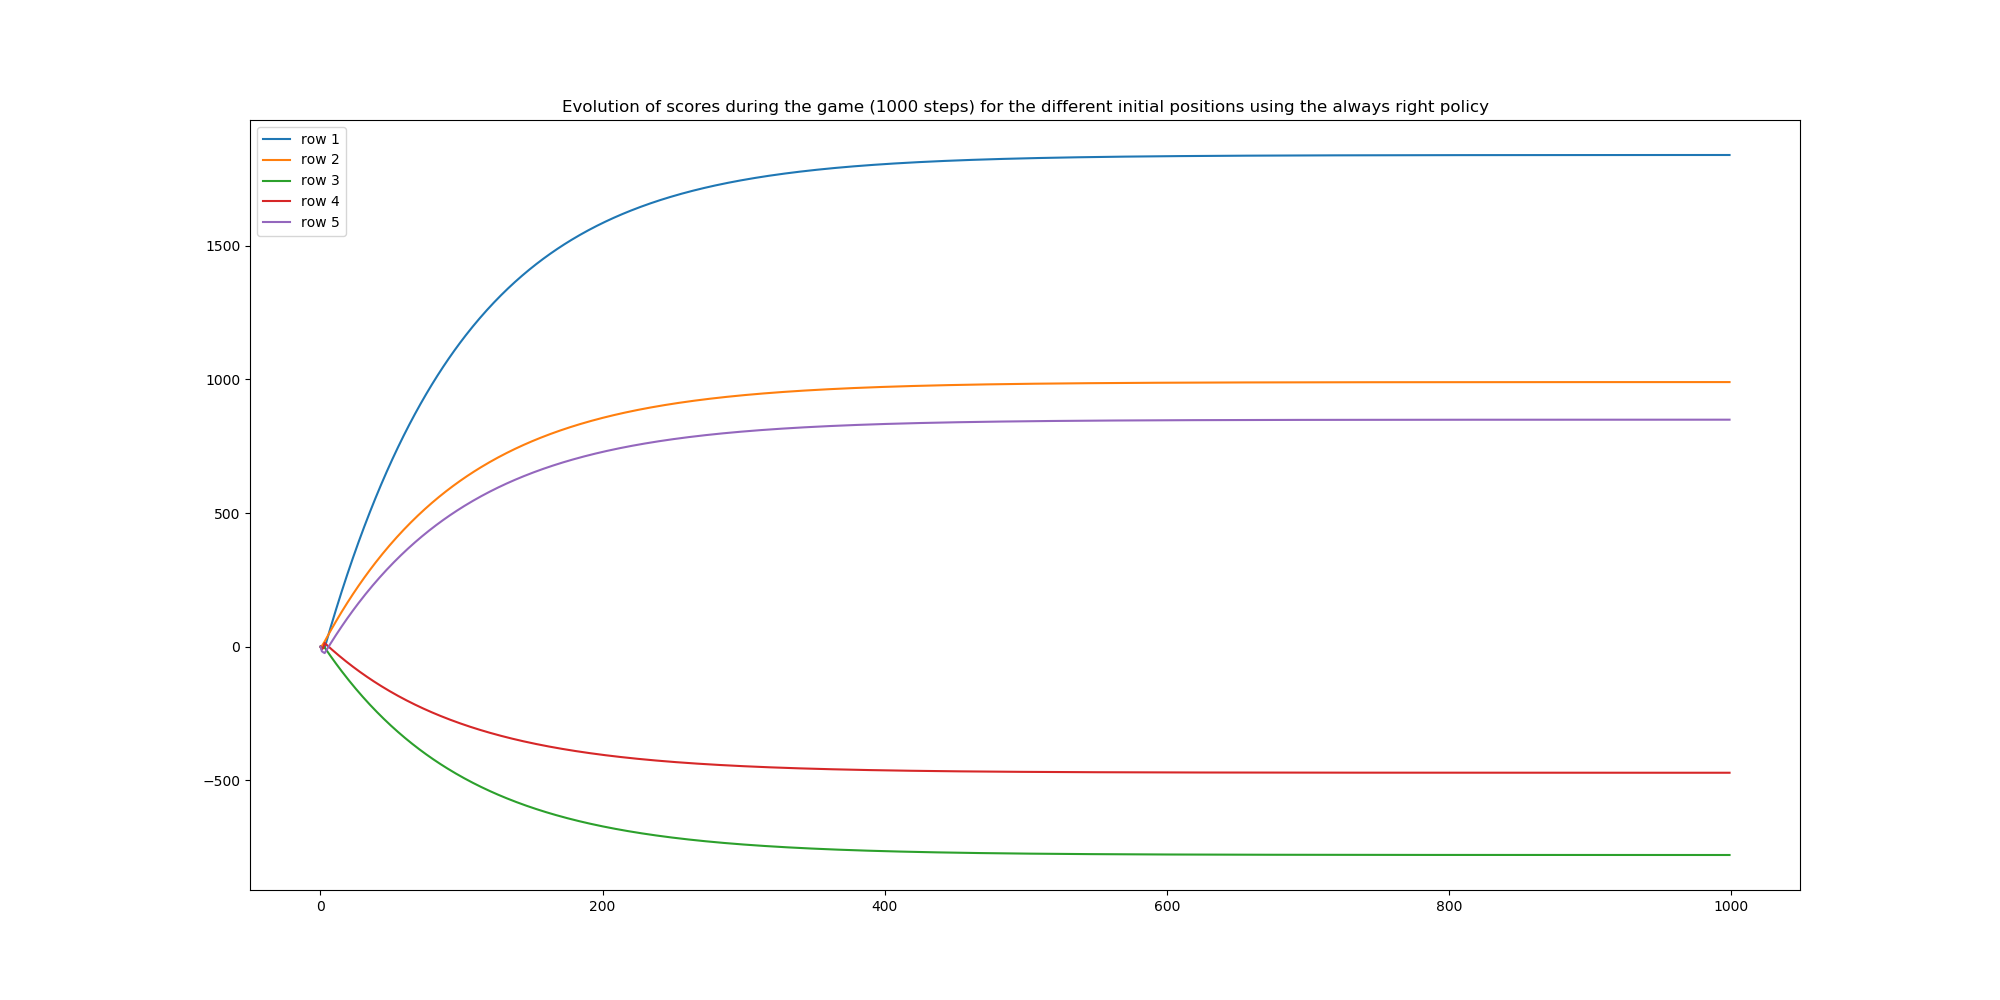
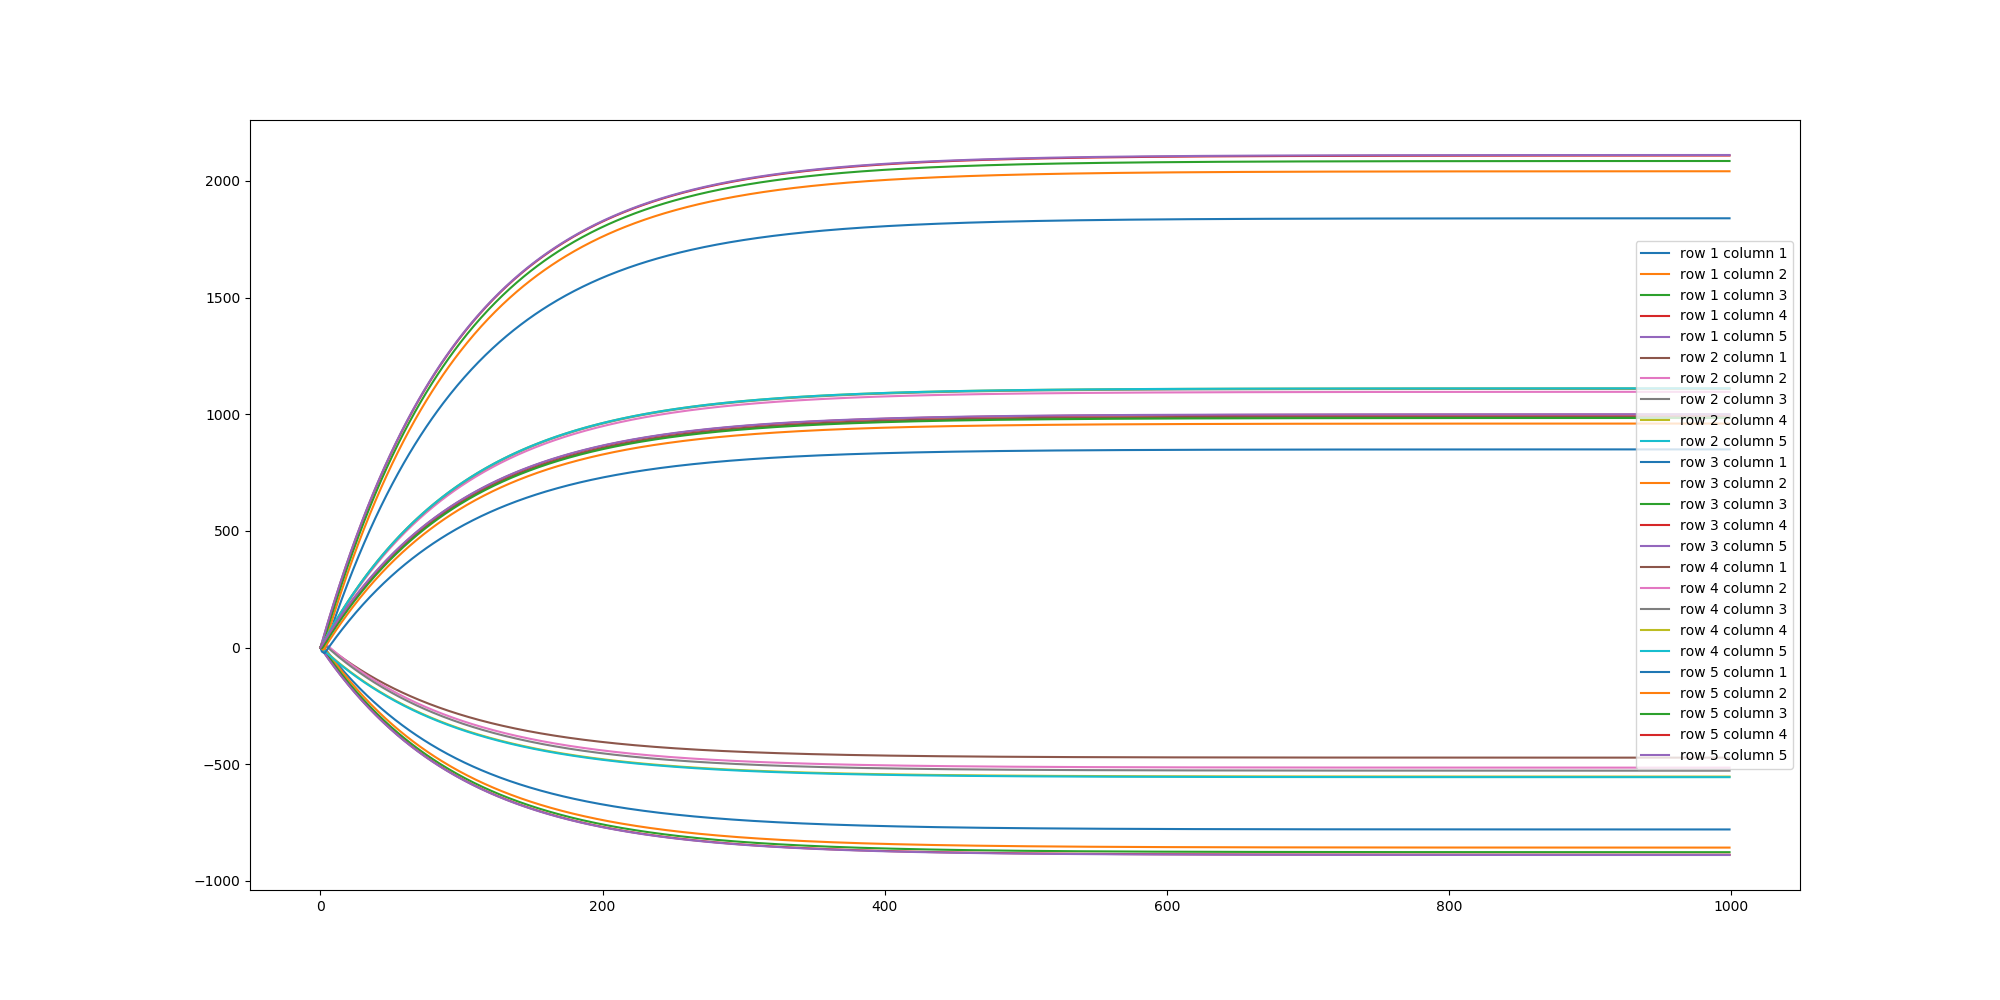
Q function and pre requisites

diff --git a/game.py b/game.py
@@ -101,6 +101,8 @@ class Agent:
             return self.policy_up()
         elif self.policyType == 4:
             return self.policy_down()
+        elif self.policyType == 5:
+            return self.Q_policy()
         else :
             return
 
@@ -145,6 +147,27 @@ class Agent:
     """
     def policy_down(self):
         self.currMove = "DOWN"
+        self.update_agent()
+
+    # returns the best move to make according to the Q policy for a given N value
+    def Q_policy(self):
+
+        N = 5 # need to change this to be more modular
+        x = self.positionI,self.positionJ
+        U = ["UP", "DOWN", "RIGHT", "LEFT"] # set of possible actions
+
+        best_action = ""
+        best_Q = best_Q = float('-inf')
+        # find best action
+        for u in U:
+            Q = self.grid.Q_function( N, x, u, self.beta)
+
+            # if the action u yielded a better Q value
+            if Q > best_Q:
+                best_Q = Q
+                best_action = u
+
+        self.currMove = u
         self.update_agent()
 
 
@@ -234,18 +257,18 @@ class Grid:
         # if the movement was allowed, the i and j indexes are changed. Otherwise we hit a wall -> i j dont change we stay there
         if direction == "UP" and self.allowed_position(i-1,j)== True:
             i= i-1
-        elif direction == "DOWN" and self.grid.allowed_position(i+1,j)== True:
+        elif direction == "DOWN" and self.allowed_position(i+1,j)== True:
             i = i+1
-        elif direction == "RIGHT" and self.grid.allowed_position(i,j+1)== True:
+        elif direction == "RIGHT" and self.allowed_position(i,j+1)== True:
             j = j+1
-        elif direction == "LEFT" and self.grid.allowed_position(i,j-1)== True:
+        elif direction == "LEFT" and self.allowed_position(i,j-1)== True:
             j = j-1
 
         expectedReward = (self.rewards[i][j] * normalMoveChance) + (self.rewards[0][0]*resetChance)
 
         return expectedReward
 
-    # this fucntion returns the proba to get to state x' (xprime) from state x while doing action u
+    # this function returns the proba to get to state x' (xprime) from state x while doing action u
     # u is one of the following : "UP", "DOWN", "RIGHT", "LEFT"
     # beta is the proba to go back to (0,0) instead of doing the action u
     def compute_proba_xprime_x_u(self, xprime, x, u, beta):
@@ -260,11 +283,11 @@ class Grid:
         # computation of the state we would reach if u was applied to x
         if direction == "UP" and self.allowed_position(i-1,j)== True:
             i_moved = i-1
-        elif direction == "DOWN" and self.grid.allowed_position(i+1,j)== True:
+        elif direction == "DOWN" and self.allowed_position(i+1,j)== True:
             i_moved = i+1
-        elif direction == "RIGHT" and self.grid.allowed_position(i,j+1)== True:
+        elif direction == "RIGHT" and self.allowed_position(i,j+1)== True:
             j_moved = j+1
-        elif direction == "LEFT" and self.grid.allowed_position(i,j-1)== True:
+        elif direction == "LEFT" and self.allowed_position(i,j-1)== True:
             j_moved = j-1
 
         # if x' state not allowed, proba to get there is 0
@@ -290,6 +313,56 @@ class Grid:
         # if we get here, unexpected case, return -1
         print(" ERROR smth unexpected happened in p(x'|x,u)")
         return -1
+
+
+    def Q_function(self, N, x, u, beta):
+
+        # end case
+        if N == 0:
+            return 0
+
+        U = ["UP", "DOWN", "RIGHT", "LEFT"] # set of possible actions
+        X = [] # domain
+        sizeI, sizeJ=self.rewards.shape
+
+        # we add to the domain all possible states
+        for i in range(sizeI):
+            for j in range(sizeI):
+                X.append((i,j))
+
+        # computing the different terms of the Q function equation
+
+        # first term : the reward
+        ret = self.compute_r_x_u(x,u,beta)
+
+        # second term : the sum
+        sum = 0
+        for x_prime in X:
+
+            proba = self.compute_proba_xprime_x_u(x_prime,x,u,beta)
+
+            # if the proba is null, we can avoid unnecassary computations
+            if(proba == 0):
+                continue
+            # need to find the u that maximizes the next Q value
+            best_Q = float('-inf')
+
+            for u_prime in U:
+                curr_Q = self.Q_function(N-1, x_prime, u_prime,beta )
+
+                if curr_Q > best_Q:
+                    best_Q = curr_Q
+
+            sum += proba*best_Q
+
+        sum = sum*self.discount
+
+        # adding both terms
+        ret = ret + sum
+
+        return ret
+
+
 
 
 
@@ -339,6 +412,8 @@ class Game:
             policyType = 3
         elif direction == "DOWN":
             policyType = 4
+        elif direction == "Q":
+            policyType = 5
         else:
             print("error unknown direction: "+direction)
         return policyType

diff --git a/section4.py b/section4.py
@@ -14,20 +14,36 @@ if __name__ == '__main__':
 	        [6, -9, 4, 19, -5],
 	        [-20, -17, -4, -3, 9]])
 
-	steps = 10
+	steps = 100
 	discount =  0.99
 	beta = 0.5
 	initialI = 0
 	initialJ = 0
-	policy = "RIGHT"
+	policy = "Q"
 
-	game = Game(initialI,initialJ,array,discount,steps,beta,policy)
 
-	x = (initialI , initialJ +1)
+	nb_run = 1
+	score = 0
+	scores = np.zeros(steps)
+
+	for k in range(nb_run):
+		game = Game(initialI,initialJ,array,discount,steps, beta,policy)
+		game.start_game()
+		scores += game.get_scores()
+
+
+	scores = scores/nb_run
+	print(scores)
+
+	"""
+	x = (initialI , initialJ )
 	u = "UP"
-	xp =  (initialI , initialJ +1)
+	xp =  (initialI , initialJ +2)
 
 	r = game.grid.compute_r_x_u(x,u, beta)
 	p = game.grid.compute_proba_xprime_x_u(xp, x, u, beta)
+	q = game.grid.Q_function( 2, x, u, beta)
 
-	print(p)
+	print(q)
+	print(r)
+	"""

diff --git a/section2.py b/section2.py
@@ -15,7 +15,7 @@ if __name__ == '__main__':
 
 	policy = "RIGHT"
 	if args.policy:
-		if args.policy=="LEFT" or args.policy=="RIGHT" or args.policy=="UP" or args.policy=="DOWN" or args.policy =="RAND":
+		if args.policy=="LEFT" or args.policy=="RIGHT" or args.policy=="UP" or args.policy=="DOWN" or args.policy =="RAND" or args.policy =="Q":
 			policy = args.policy
 		else :
 			print("UNKNOWN policy: "+args.policy)

diff --git a/README.md b/README.md
@@ -5,6 +5,7 @@
 * j'ai collectionné tous les tuples (r,x,u) pour la section 4. 1 par step. J'en fait quoi mnt ?
 * beta en argument commande
 * Section 4 -> Bardhyl
+* coucou Samy, si tu vois ceci, tu peux nous mettre + 1 ? Ca serait gentil :) 
 * Section 5 --> Pierre
 * section 5 : r doit etre trouvé aussi, vérifier que c'est bien comme on a dit (valeur instantanée)
 * beta = chance de revenir case départ, vérifier que bien utilisé comme tel
